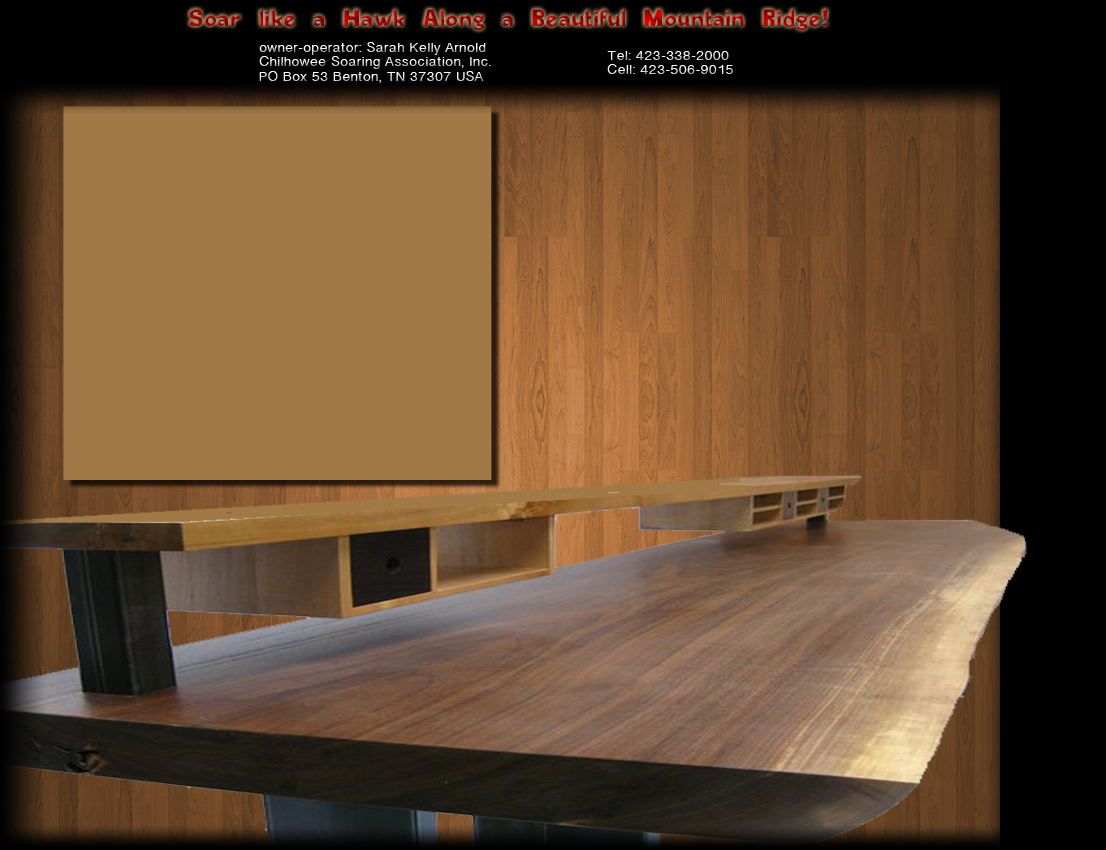
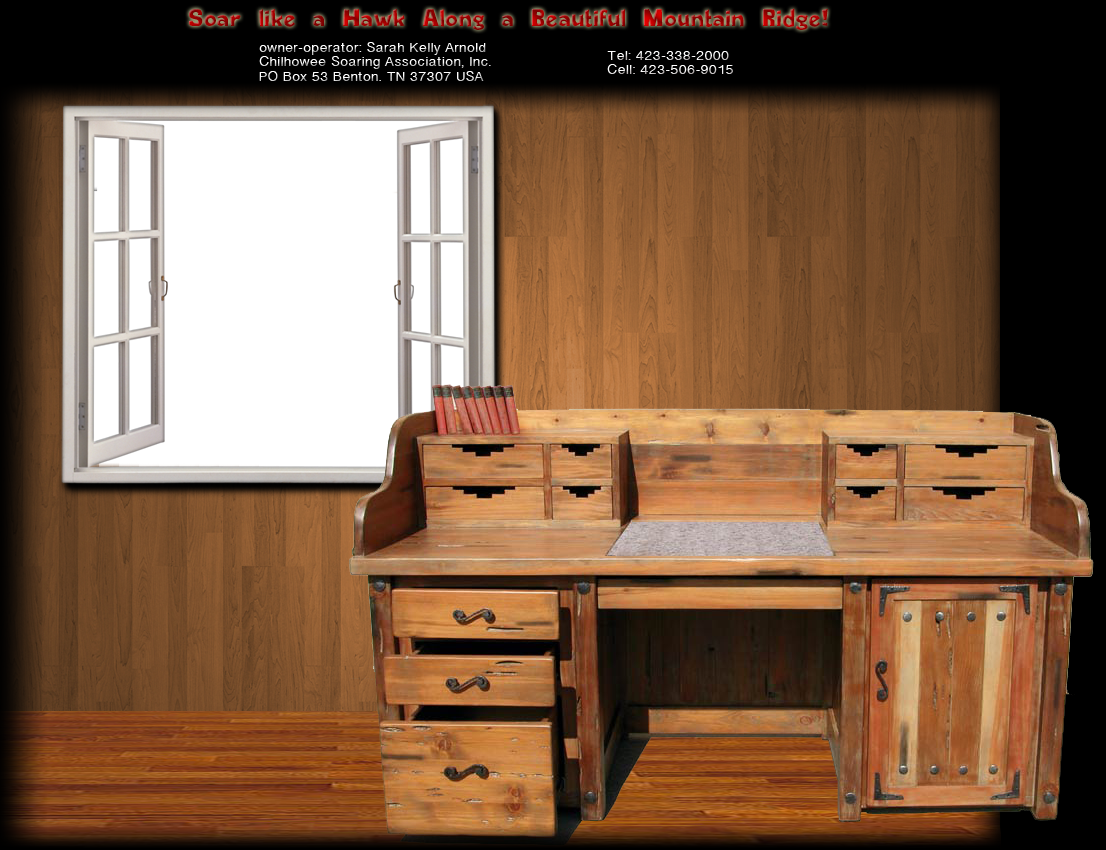
Improved design of main page

diff --git a/index.html b/index.html
@@ -7,10 +7,10 @@
 		<link rel="stylesheet" type="text/css" href="styles/index.css" />
 	</head>
 	<body>
-		<div id="window_open">
+<!-- 		<div id="window_open">
 			<img src="images/windowOpen.png" alt="Window Open" width="430px" height="375px"></img>
-		</div>
-		<div id="window_back_view">
+		</div> -->
+				<div id="window_back_view">
 			<img src="images/backWindow/backWindow1.jpg" alt="image1"></img>
 		</div>
 		<div id="chilhowee_logo">

diff --git a/styles/index.css b/styles/index.css
@@ -36,8 +36,8 @@ div#center_page {
 	position: relative;
 	top: -60px;
 	width: 1100px;
-	height: 769px;
-	background: #0e564e url("../images/MainPageBackground.png") no-repeat;
+	height: 869px;
+	background: url("../images/MainPageBackground.png") no-repeat;
 	margin: 0px auto;
 }
 
@@ -67,6 +67,6 @@ div#window_back_view {
 	position: absolute;
 	left: 252px;
 	top: 132px;
-	z-index: 2;
+	z-index: -1;
 }
 
